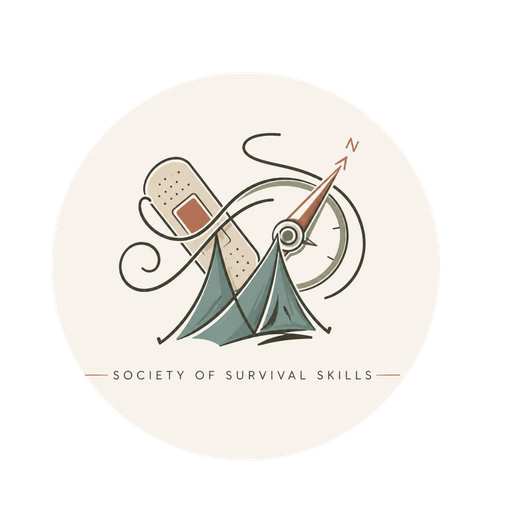
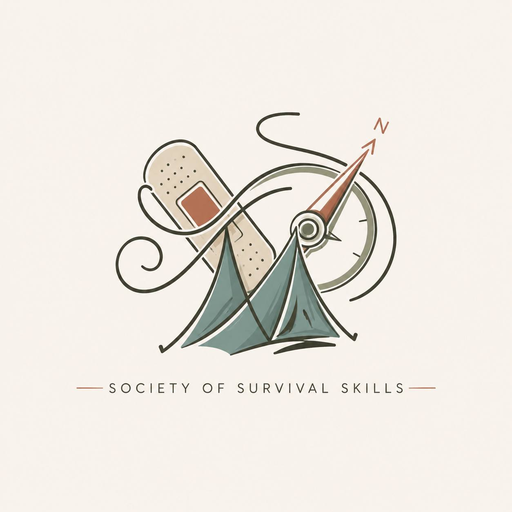
Add files via upload

Changed region(s): [[0.1562, 0.2188, 0.8438, 0.7812], [0.25, 0.5625, 0.3125, 0.5938]]

diff --git a/index.html b/index.html
@@ -4,7 +4,7 @@
 <meta charset="UTF-8">
 <meta name="viewport" content="width=device-width, initial-scale=1.0">
 <title>The Case File — Storyline Hunt</title>
[2 lines of base64/hex data omitted]
 <link rel="preconnect" href="https://fonts.googleapis.com">
 <link href="https://fonts.googleapis.com/css2?family=Cormorant+Garamond:ital,wght@0,500;0,600;1,500&family=IBM+Plex+Mono:wght@400;500;600&family=Inter:wght@400;500;600&display=swap" rel="stylesheet">
 <link rel="manifest" href="manifest.json">